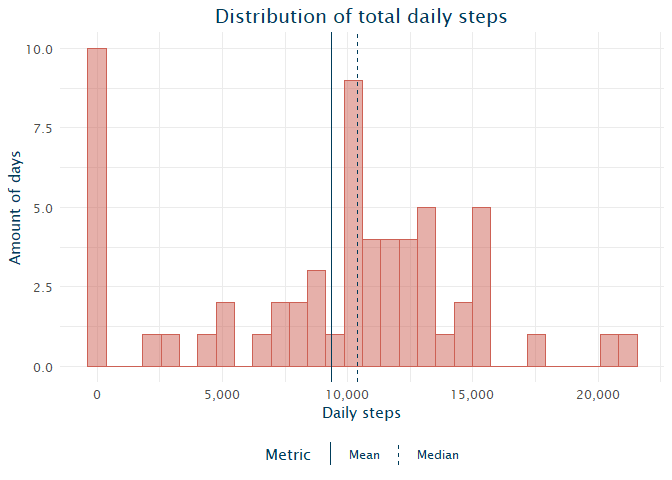
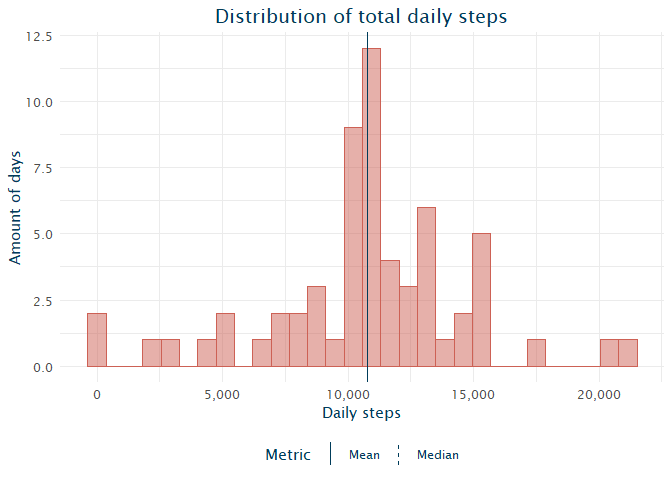
Corrected impute

diff --git a/PA1_template.html b/PA1_template.html
@@ -244,7 +244,7 @@ max_interval &lt;- data_agg$time[which.max(data_agg$avg_steps)]</code></pre>
 <pre class="r"><code>impute.mean &lt;- function(x) replace(x, is.na(x), mean(x, na.rm = TRUE))
 data_imputed &lt;- data %&gt;%
     group_by(time) %&gt;%
-    mutate(steps_imp = impute.mean(steps))</code></pre>
+    mutate(steps = impute.mean(steps))</code></pre>
 <p>Now let’s check how the data have changed with drawing the same histogram as previously and calculating mean and median.</p>
 <pre class="r"><code>data_per_day_imputed &lt;- data_imputed %&gt;%
     group_by(date) %&gt;%
@@ -273,8 +273,8 @@ data_per_day_imputed %&gt;%
     scale_linetype_manual(name = &quot;Metric&quot;, 
                         values = c(Mean = 1, Median = 2))</code></pre>
 <pre><code>## `stat_bin()` using `bins = 30`. Pick better value with `binwidth`.</code></pre>
[1 lines of base64/hex data omitted]
-<p>The new mean is 9,354.23 which is 0.00 more than previously. The new median is 10,395.00 which is 0.00 more than previously.</p>
[1 lines of base64/hex data omitted]
+<p>The new mean is 10,766.19 which is 1,411.96 more than previously. The new median is 10,766.19 which is 371.19 more than previously.</p>
 </div>
 <div id="are-there-differences-in-activity-patterns-between-weekdays-and-weekends" class="section level2">
 <h2>Are there differences in activity patterns between weekdays and weekends?</h2>

diff --git a/PA1_template.md b/PA1_template.md
@@ -189,7 +189,7 @@ I have decided to impute this missing data with the average for the same interva
 impute.mean <- function(x) replace(x, is.na(x), mean(x, na.rm = TRUE))
 data_imputed <- data %>%
     group_by(time) %>%
-    mutate(steps_imp = impute.mean(steps))
+    mutate(steps = impute.mean(steps))
 ```
 
 Now let's check how the data have changed with drawing the same histogram as previously and calculating mean and median.
@@ -235,7 +235,7 @@ data_per_day_imputed %>%
 
 ![](PA1_template_files/figure-html/unnamed-chunk-14-1.png)<!-- -->
 
-The new mean is 9,354.23 which is 0.00 more than previously. The new median is 10,395.00 which is 0.00  more than previously. 
+The new mean is 10,766.19 which is 1,411.96 more than previously. The new median is 10,766.19 which is 371.19  more than previously. 
 
 ## Are there differences in activity patterns between weekdays and weekends?
 
